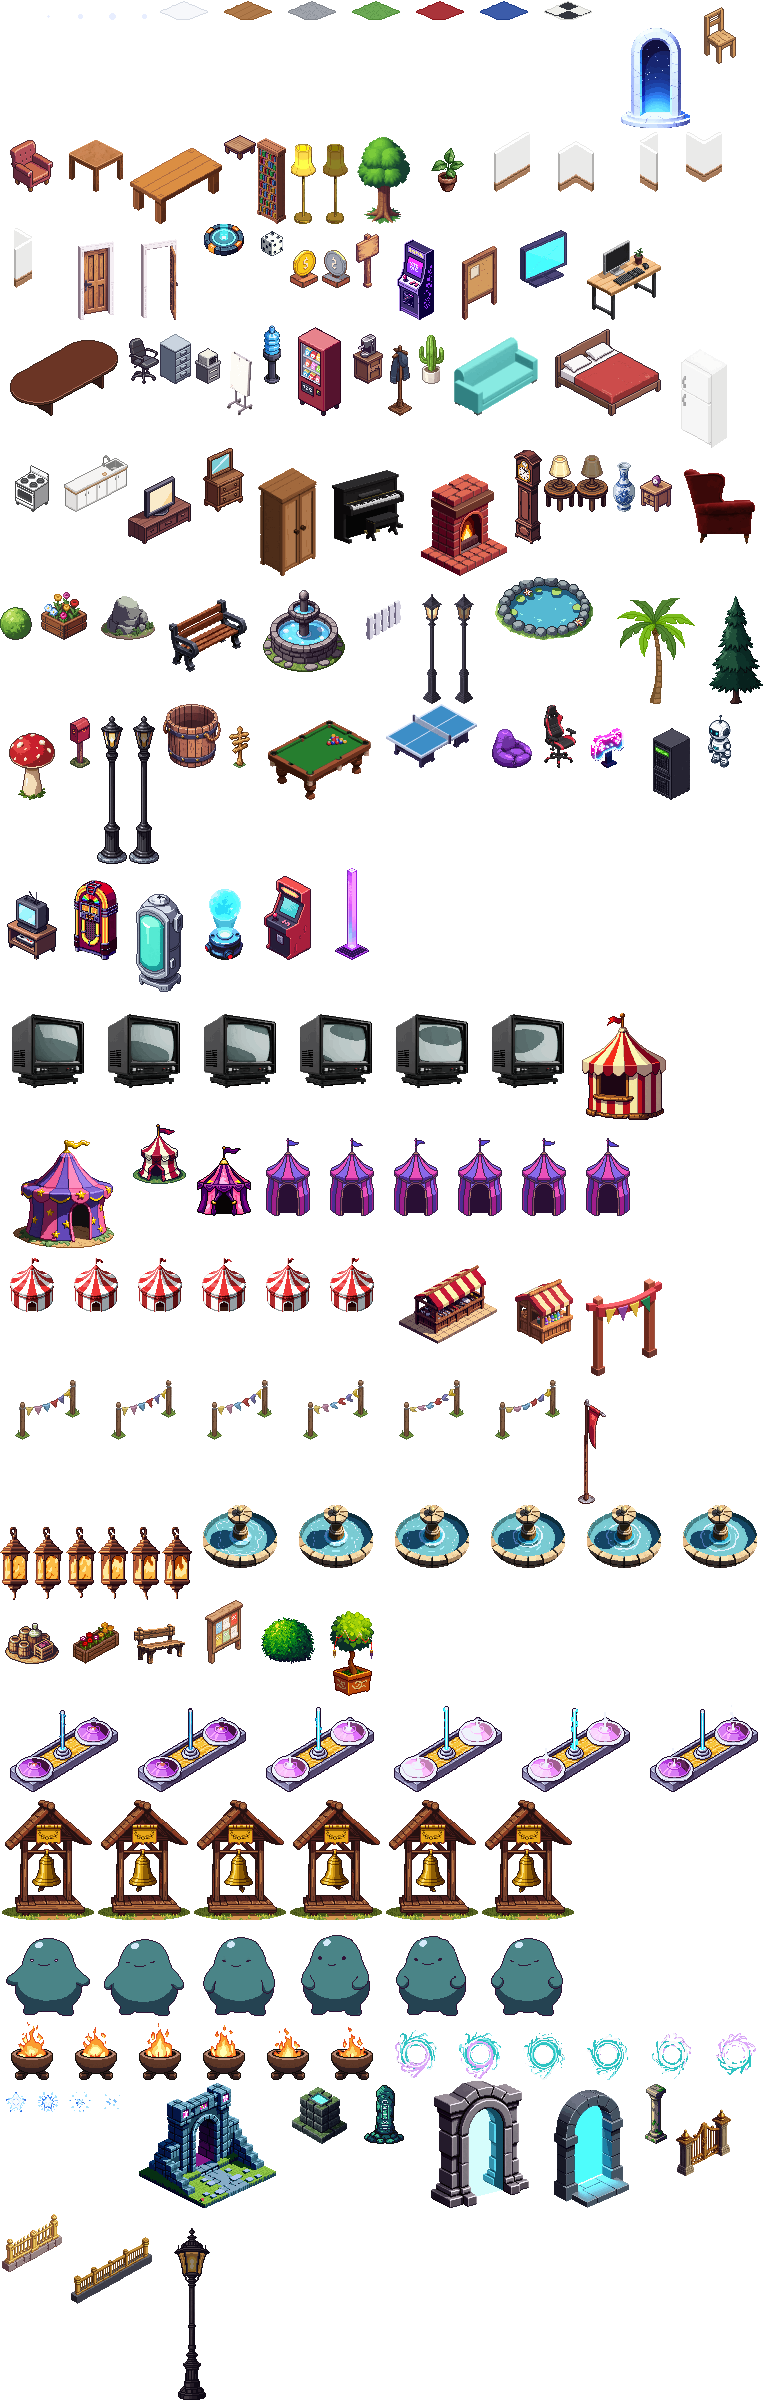
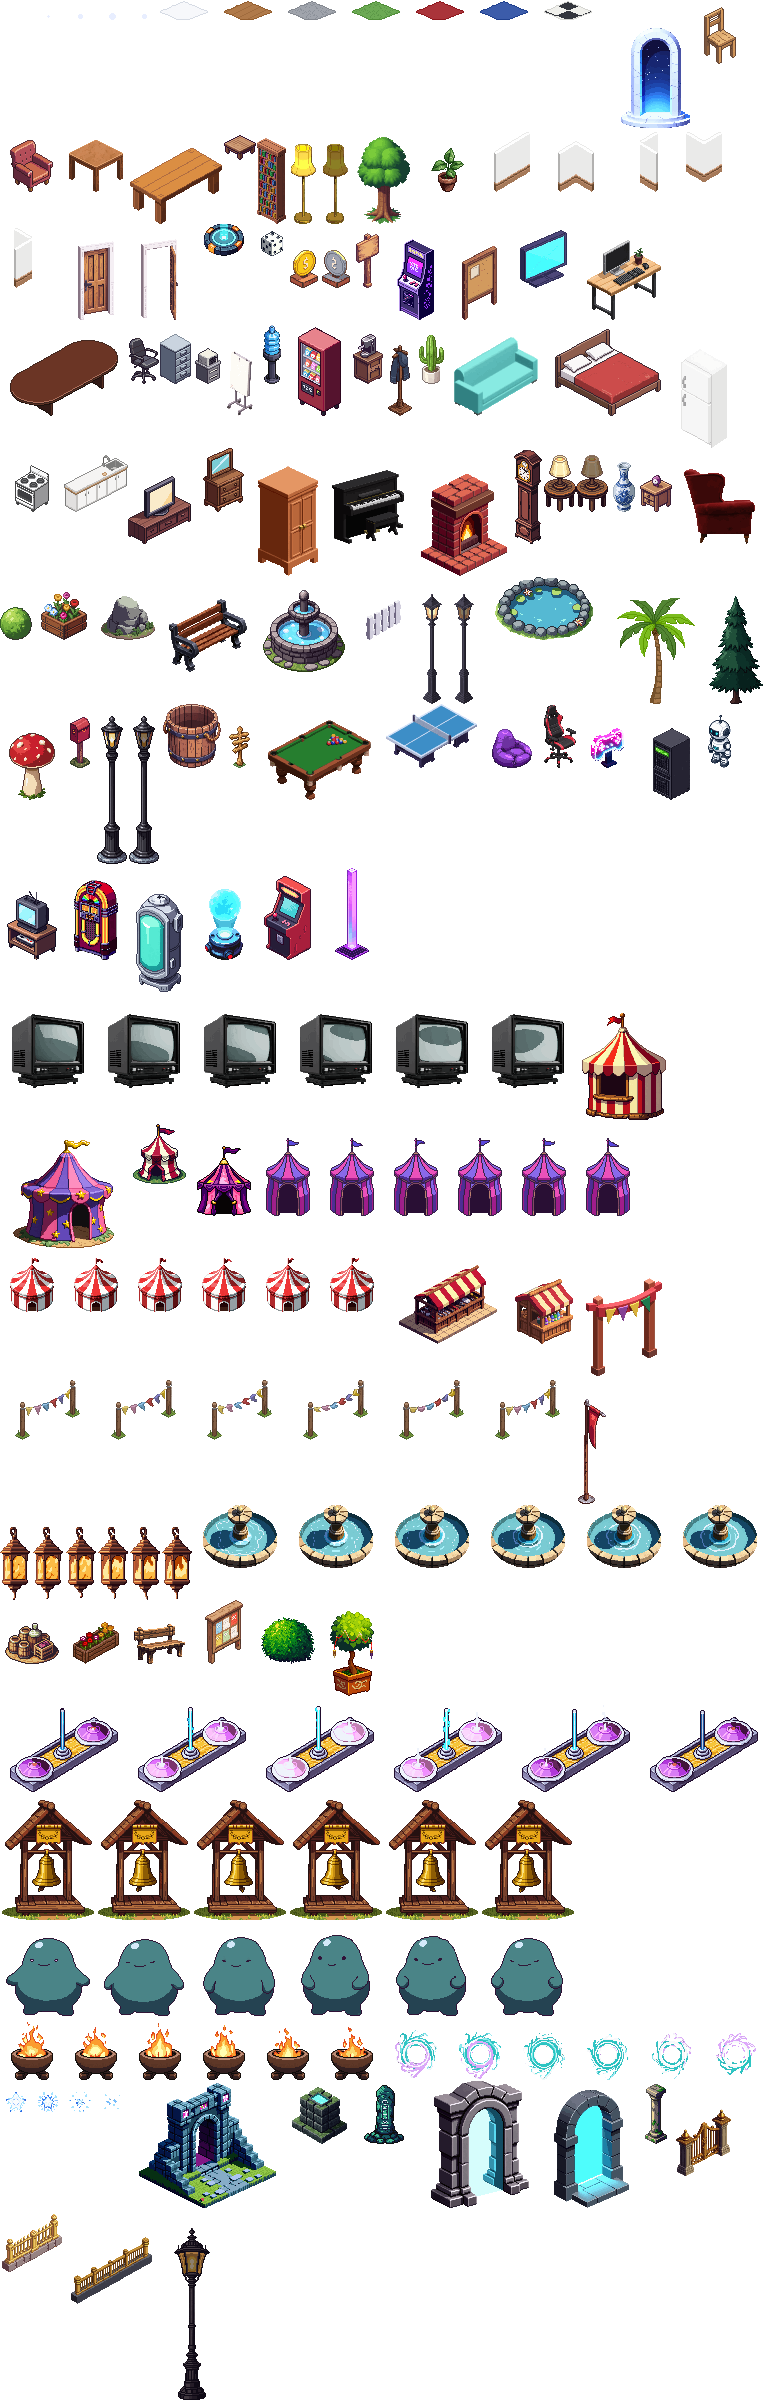
Construct: an isometric wardrobe, and loops of generated frames only
The wardrobe is drawn again as an isometric box, one tile, its doors facing
down-right like the sofa's seat; the mirrored old art read almost straight
at the camera. The bunting and the Telepod loop on the six frames their
animation generated: the still it began from has a smaller palette and
flickered once a loop. The fetcher takes an image animation from its `first`
frame on.

diff --git a/virtual.space/tools/fetch_pixellab_objects.py b/virtual.space/tools/fetch_pixellab_objects.py
@@ -3,7 +3,8 @@
 
 Each entry names what a piece was drawn as: a PixelLab object (`object`, and
 for a piece that moves the `animation` it moves with), a map object
-(`map_object`), or the frames of an image animation (`image_job`). A still piece lands as
+(`map_object`), or the frames of an image animation (`image_job`, from its
+`first` frame on). A still piece lands as
 ``scenes/construct/<kind>.png`` (the object's one rotation); an animated one as
 ``scenes/construct/anim/<kind>/<i>.png``, one file per frame — the layout
 ``author_construct.py`` reads. The art is committed: this runs when a piece is
@@ -40,11 +41,14 @@ def downloads(registry, kinds=None):
     for kind in wanted:
         entry = objects[kind]
         if "image_job" in entry:
-            # An animation made from a loose image: the job's frames, frame 0
-            # being the still it started from (the `map_object`, when named,
-            # is where that still came from).
+            # An animation made from a loose image: the job's frames, its frame
+            # 0 being the still it started from (the `map_object`, when named,
+            # is where that still came from). `first` skips into the job, so a
+            # loop can be made of generated frames alone; they land numbered
+            # from 0 either way.
+            first = entry.get("first", 0)
             for i in range(entry["frames"]):
-                out.append((f"{MCP}/images/{entry['image_job']}/download?index={i}",
+                out.append((f"{MCP}/images/{entry['image_job']}/download?index={first + i}",
                             os.path.join("anim", kind, f"{i}.png")))
             continue
         if "map_object" in entry:

diff --git a/scripts/tests/test_fetch_pixellab_objects.py b/scripts/tests/test_fetch_pixellab_objects.py
@@ -54,6 +54,16 @@ class DownloadsTest(unittest.TestCase):
         )
         self.assertTrue(fetch.downloads(REGISTRY, ["flag"])[1][0].endswith("job-4/download?index=1"))
 
+    def test_an_image_animation_can_skip_the_still_it_began_from(self):
+        registry = {"base": "", "objects": {"flag": {"image_job": "job-4", "first": 1, "frames": 2}}}
+        self.assertEqual(
+            fetch.downloads(registry),
+            [
+                (f"{fetch.MCP}/images/job-4/download?index=1", os.path.join("anim", "flag", "0.png")),
+                (f"{fetch.MCP}/images/job-4/download?index=2", os.path.join("anim", "flag", "1.png")),
+            ],
+        )
+
     def test_everything_in_kind_order_by_default(self):
         paths = [path for _url, path in fetch.downloads(REGISTRY)]
         self.assertEqual(paths[0], os.path.join("anim", "bell", "0.png"))

diff --git a/virtual.space/tools/author_construct.py b/virtual.space/tools/author_construct.py
@@ -148,7 +148,7 @@ LIBRARY = {
         "kitchen_counter": {"size": [1, 2]},
         "tv_stand": {"size": [1, 2], "lights": _lit("9fc4ff", 1.6, 30)},
         "dresser": {},
-        "wardrobe": {"size": [1, 2], "mirror": True},
+        "wardrobe": {},
         "piano": {"size": [1, 2], "mirror": True},
         "fireplace": {"size": [1, 2], "lights": _lit("ff9a4d", 3.0, 12)},
         "grandfather_clock": {},

diff --git a/virtual.space/SCENES.md b/virtual.space/SCENES.md
@@ -356,7 +356,11 @@ author is `virtual.space/tools/author_construct.py`, which writes
   `tools/fetch_pixellab_objects.py` downloads them into the layout below, so a
   piece can be traced back to where it was drawn. An entry is an `object`
   (with its `animation`), a `map_object`, or an `image_job` (an
-  `animate_image` run over a map object, frame 0 being the still).
+  `animate_image` run over a map object, frame 0 being the still). A loop is
+  made of the generated frames alone (`first: 1`): the still is drawn with a
+  smaller palette than the frames after it, and shows as a flicker once a
+  loop. A map object may not outlive its day on PixelLab's side, so its id
+  records where the art came from; the committed PNG is the art.
 - **Judge the drawing's direction, not PixelLab's `view` label.** Every piece
   runs from bottom-left to top-right or is round; old objects drawn straight
   at the camera (a gate, an arch, a sign board) block a diagonal of tiles while
